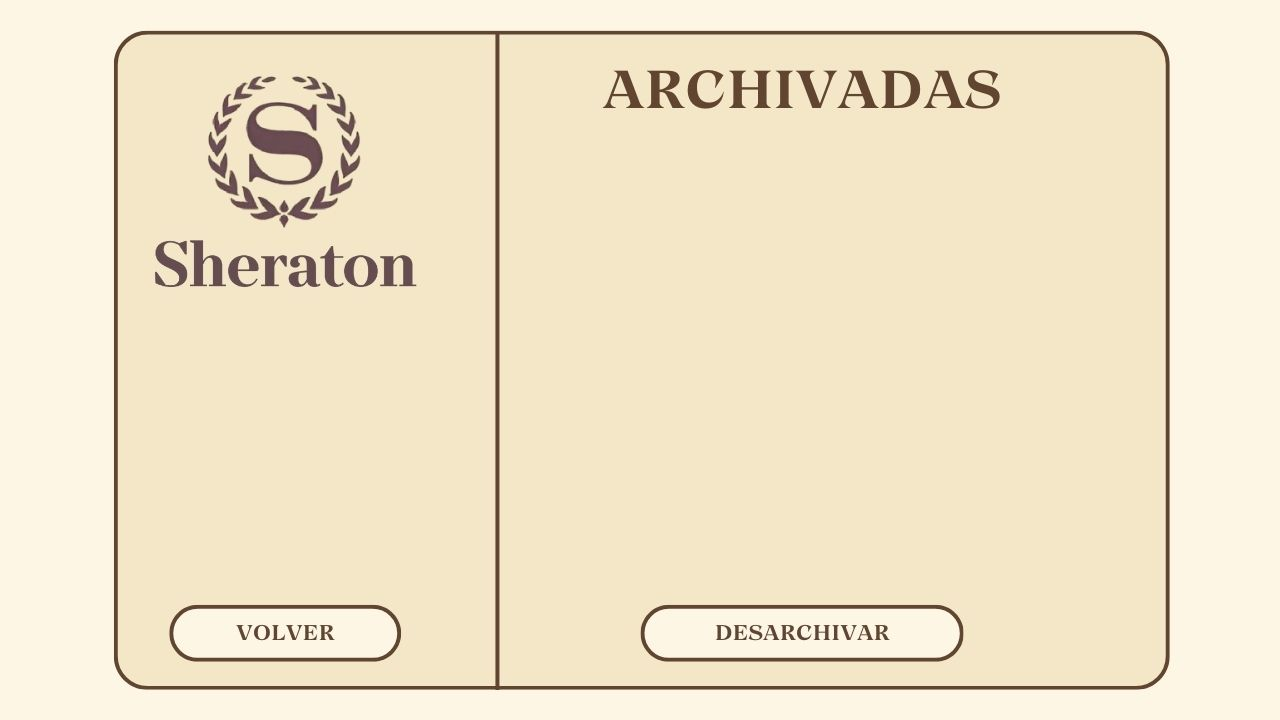
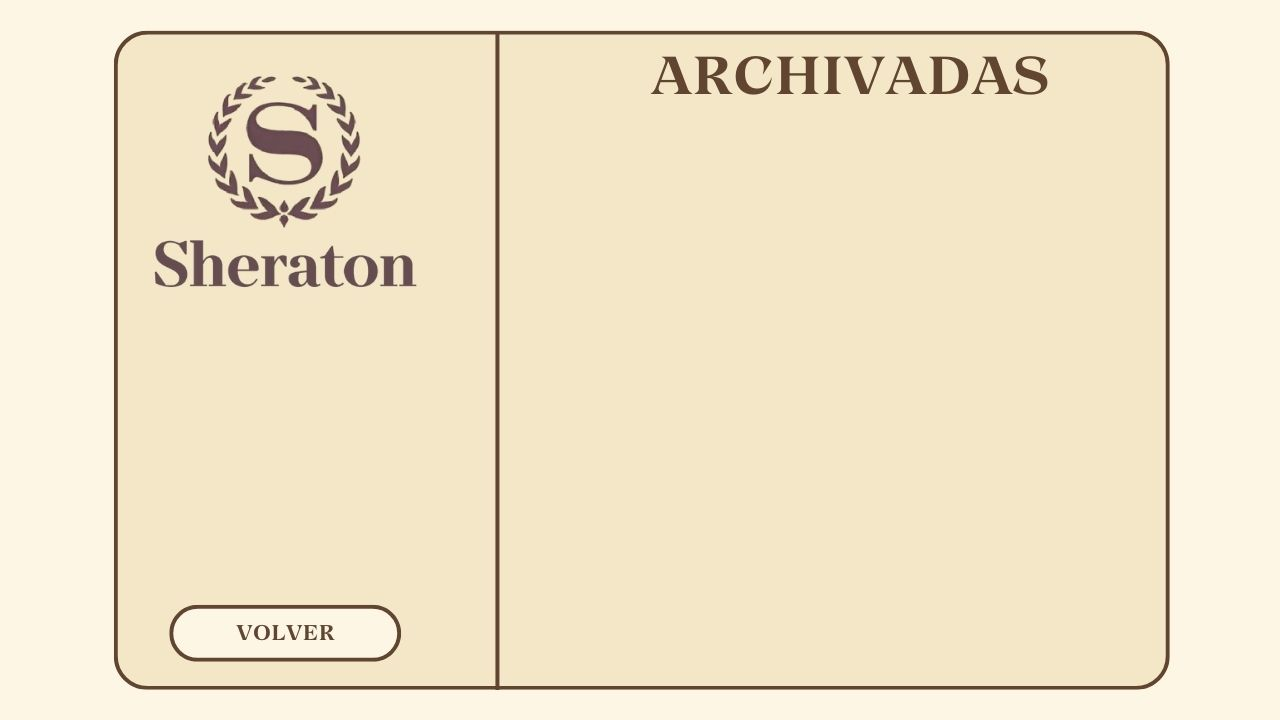
vc

Changed region(s): [[0.4688, 0.0611, 0.8438, 0.1528], [0.5, 0.825, 0.75, 0.9167]]

diff --git a/main2.py b/main2.py
@@ -550,7 +550,48 @@ def cursor(mouse_pos):
         else:
              pygame.mouse.set_cursor(pygame.SYSTEM_CURSOR_ARROW)
 
+
+    elif fondo_actual[0] == "menu mantenimiento":
+        if mouse_pos[0] < 374 and mouse_pos[0] > 144 and mouse_pos[1] < 342 and mouse_pos[1] > 285: #notificaciones
+            pygame.mouse.set_cursor(pygame.SYSTEM_CURSOR_HAND)
+
+        elif mouse_pos[0] < 374 and mouse_pos[0] > 144 and mouse_pos[1] < 440 and mouse_pos[1] > 378: #ver stcok
+            pygame.mouse.set_cursor(pygame.SYSTEM_CURSOR_HAND)
+
+        elif mouse_pos[0] < 374 and mouse_pos[0] > 144 and mouse_pos[1] < 535 and mouse_pos[1] > 470: #salir
+            pygame.mouse.set_cursor(pygame.SYSTEM_CURSOR_HAND)
+            
+        else:
+            pygame.mouse.set_cursor(pygame.SYSTEM_CURSOR_ARROW)
+
+
+    elif fondo_actual[0] == "mantenimiento notificaciones":
+        if mouse_pos[0] < 400 and mouse_pos[0] > 170 and mouse_pos[1] < 555 and mouse_pos[1] > 505: #archivadas
+            pygame.mouse.set_cursor(pygame.SYSTEM_CURSOR_HAND)
         
+        elif mouse_pos[0] < 400 and mouse_pos[0] > 170 and mouse_pos[1] < 630 and mouse_pos[1] > 575: #volver
+            pygame.mouse.set_cursor(pygame.SYSTEM_CURSOR_HAND)
+        
+        elif mouse_pos[0] < 970 and mouse_pos[0] > 820 and mouse_pos[1] < 665 and mouse_pos[1] > 625: #archivar
+            pygame.mouse.set_cursor(pygame.SYSTEM_CURSOR_HAND)
+        
+        elif mouse_pos[0] < 1140 and mouse_pos[0] > 990 and mouse_pos[1] < 665 and mouse_pos[1] > 625: #fijar
+            pygame.mouse.set_cursor(pygame.SYSTEM_CURSOR_HAND)
+        
+        else:
+            pygame.mouse.set_cursor(pygame.SYSTEM_CURSOR_ARROW)
+        
+    elif fondo_actual[0] == "mantenimiento stock":
+        if mouse_pos[0] < 465 and mouse_pos[0] > 330 and mouse_pos[1] < 665 and mouse_pos[1] > 625: #añadir
+            pygame.mouse.set_cursor(pygame.SYSTEM_CURSOR_HAND)
+        
+        elif mouse_pos[0] < 1245 and mouse_pos[0] > 1185 and mouse_pos[1] < 695 and mouse_pos[1] > 640: #volver
+            pygame.mouse.set_cursor(pygame.SYSTEM_CURSOR_HAND)
+        
+        else:
+            pygame.mouse.set_cursor(pygame.SYSTEM_CURSOR_ARROW)
+
+
     if fondo_actual[0] in ["habitacion balcon", "habitacion triple", "habitacion doble", "habitacion lujo", "habitacion cuadruple", "suite rio", "habitacion individual", "suite jacuzzi", "suite estandar"]:
             if mouse_pos[0] < 1008 and mouse_pos[0] > 785 and mouse_pos[1] < 666 and mouse_pos[1] > 605:#reservar       
                 pygame.mouse.set_cursor(pygame.SYSTEM_CURSOR_HAND)    
@@ -1434,7 +1475,19 @@ while running:
 
                         fondo_actual[0] = "iniciar sesion"
                         fondo_actual[1] = 0
-                    
+                
+
+                elif fondo_actual[0] == "mantenimiento notificaciones":
+                    if mouse_pos[0] < 400 and mouse_pos[0] > 170 and mouse_pos[1] < 630 and mouse_pos[1] > 575: #volver
+                        fondo_actual[0] = "menu mantenimiento"
+                        fondo_actual[1] = 10
+
+
+                elif fondo_actual[0] == "mantenimiento stock":
+                    if mouse_pos[0] < 1245 and mouse_pos[0] > 1185 and mouse_pos[1] < 695 and mouse_pos[1] > 640: #volver
+                        fondo_actual[0] = "menu mantenimiento"
+                        fondo_actual[1] = 10
+
 
                 elif fondo_actual[0] == "pagar mercado pago":
                     if mouse_pos[0] < 842 and mouse_pos[0] > 437 and mouse_pos[1] < 647 and mouse_pos[1] > 243: #QR
